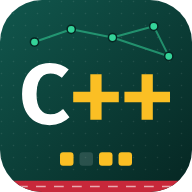
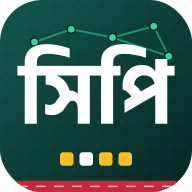
update

diff --git a/src/components/BfsDfsAnim.jsx b/src/components/BfsDfsAnim.jsx
@@ -1,0 +1,142 @@
+import { useEffect, useMemo, useState } from "react";
+import { useInView, reduced } from "./Reveal";
+import { GraphFig } from "./GraphViz";
+
+// ───── নমুনা গ্রাফ (১ থেকে শুরু) ─────
+const POS = { 1: [250, 32], 2: [80, 108], 3: [250, 108], 4: [415, 108], 5: [35, 184], 6: [125, 184], 7: [250, 184], 8: [355, 184], 9: [415, 184], 10: [475, 184], 11: [125, 250], 12: [415, 250] };
+const EDGES = [[1, 2], [1, 3], [1, 4], [2, 5], [2, 6], [3, 7], [4, 8], [4, 9], [4, 10], [6, 11], [9, 12]];
+const ADJ = {};
+Object.keys(POS).forEach((k) => (ADJ[k] = []));
+EDGES.forEach(([a, b]) => { ADJ[a].push(b); ADJ[b].push(a); });
+Object.values(ADJ).forEach((l) => l.sort((x, y) => x - y));
+const list = (a) => a.join(", ");
+
+// প্রতিটা ধাপের ছবি আগে থেকেই বানিয়ে রাখি
+function bfsSteps() {
+  const out = [{ cur: null, done: [], wait: [1], tree: [], msg: "শুরু: root (১) কে queue তে রাখলাম" }];
+  const seen = new Set([1]), q = [1], done = [], tree = [];
+  while (q.length) {
+    const u = q.shift();
+    done.push(u);
+    const fresh = ADJ[u].filter((v) => !seen.has(v));
+    fresh.forEach((v) => { seen.add(v); q.push(v); tree.push([u, v]); });
+    out.push({
+      cur: u, done: [...done], wait: [...q], tree: [...tree],
+      msg: `${u} কে queue এর সামনে থেকে নিলাম${fresh.length ? ` — নতুন প্রতিবেশী ${list(fresh)} queue এর পেছনে ঢুকলো` : " — নতুন কোনো প্রতিবেশী নেই"}`,
+    });
+  }
+  out.push({ ...out[out.length - 1], cur: null, msg: `শেষ! BFS order: ${list(done)} — কাছের node আগে, দূরের node পরে 🌊` });
+  return out;
+}
+
+function dfsSteps() {
+  const out = [{ cur: null, done: [], wait: [], tree: [], msg: "শুরু: root (১) থেকে শুরু — যতটা পারি গভীরে যাবো" }];
+  const seen = new Set(), path = [], done = [], tree = [];
+  const snap = (cur, msg) => out.push({ cur, done: [...done], wait: [...path], tree: [...tree], msg });
+  const go = (u, p) => {
+    seen.add(u); path.push(u); done.push(u);
+    if (p) tree.push([p, u]);
+    const nxt = ADJ[u].filter((v) => !seen.has(v));
+    snap(u, `${u} এ ঢুকলাম${nxt.length ? ` — না-দেখা প্রতিবেশী ${list(nxt)}, আগে ${nxt[0]} তে গভীরে যাই` : " — আর কোথাও যাওয়ার নেই, ফিরে যাবো"}`);
+    ADJ[u].forEach((v) => {
+      if (!seen.has(v)) go(v, u);
+    });
+    path.pop();
+    if (path.length) snap(path[path.length - 1], `${u} এর কাজ শেষ — ফিরে এলাম ${path[path.length - 1]} এ (backtrack)`);
+  };
+  go(1, 0);
+  out.push({ ...out[out.length - 1], cur: null, msg: `শেষ! DFS order: ${list(done)} — একদম গভীরে গিয়ে তারপর ফেরা 🧗` });
+  return out;
+}
+
+const MODES = {
+  bfs: { label: "BFS", sub: "Queue · ঢেউয়ের মতো", box: "Queue", hint: "সামনে থেকে বের, পেছনে ঢোকে (FIFO)", steps: bfsSteps(), page: "graph-bfs" },
+  dfs: { label: "DFS", sub: "Stack · গভীরে গিয়ে ফেরা", box: "Stack (বর্তমান পথ)", hint: "যেভাবে ঢুকেছি, উল্টো পথে ফিরবো (LIFO)", steps: dfsSteps(), page: "graph-dfs" },
+};
+
+export default function BfsDfsAnim({ onOpen }) {
+  const [ref, inView] = useInView(false);
+  const [mode, setMode] = useState("bfs");
+  const [s, setS] = useState(0);
+  const [play, setPlay] = useState(true);
+  const M = MODES[mode];
+  const total = M.steps.length;
+  const st = M.steps[Math.min(s, total - 1)];
+  const done = s >= total - 1;
+
+  useEffect(() => {
+    if (!inView || !play || reduced()) return;
+    const id = setTimeout(() => setS((x) => (x >= total - 1 ? 0 : x + 1)), done ? 2600 : 1300);
+    return () => clearTimeout(id);
+  }, [inView, play, s, done, total]);
+
+  const pick = (m) => { setMode(m); setS(0); setPlay(true); };
+
+  const fig = useMemo(() => {
+    const order = Object.fromEntries(st.done.map((n, i) => [n, i + 1]));
+    const waiting = new Set(st.wait);
+    const nodes = Object.entries(POS).map(([id, [x, y]]) => {
+      const n = +id;
+      let c = "n";
+      if (n === st.cur) c = "a";
+      else if (waiting.has(n)) c = "q";
+      else if (order[n]) c = "v";
+      return { id: n, x, y, s: c, sub: order[n] ? `#${order[n]}` : "" };
+    });
+    const isTree = (a, b) => st.tree.some(([p, q]) => (p === a && q === b) || (p === b && q === a));
+    const edges = EDGES.map(([a, b]) => ({ a, b, s: isTree(a, b) ? "t" : "n" }));
+    return { w: 510, h: 280, r: 20, nodes, edges, caption: `${M.label} এর ধাপ` };
+  }, [st, M.label]);
+
+  const tone = mode === "bfs" ? { on: "bg-rose-600 text-white", ring: "border-rose-200", btn: "bg-rose-600 hover:bg-rose-700", chip: "bg-sky-100 text-sky-900 ring-sky-300" } : { on: "bg-violet-600 text-white", ring: "border-violet-200", btn: "bg-violet-600 hover:bg-violet-700", chip: "bg-sky-100 text-sky-900 ring-sky-300" };
+
+  return (
+    <div ref={ref} className={`rounded-3xl border bg-white p-4 shadow-md sm:p-6 ${tone.ring}`}>
+      <div className="mb-3 flex flex-wrap items-center gap-2" role="tablist" aria-label="BFS বা DFS বাছো">
+        {Object.entries(MODES).map(([k, m]) => (
+          <button key={k} role="tab" aria-selected={mode === k} onClick={() => pick(k)}
+            className={`rounded-xl px-4 py-2 text-base font-bold transition ${mode === k ? (k === "bfs" ? "bg-rose-600 text-white shadow" : "bg-violet-600 text-white shadow") : "border border-slate-300 text-slate-700 hover:bg-slate-100"}`}>
+            {m.label} <span className="hidden text-sm font-semibold opacity-90 sm:inline">· {m.sub}</span>
+          </button>
+        ))}
+      </div>
+
+      <GraphFig g={fig} />
+
+      <div className="mt-3 grid gap-3 sm:grid-cols-2">
+        <div className="rounded-xl bg-slate-50 p-3 ring-1 ring-slate-200">
+          <p className="text-sm font-bold text-slate-600">{M.box} <span className="font-semibold text-slate-500">— {M.hint}</span></p>
+          <div className="mt-2 flex min-h-[2.5rem] flex-wrap items-center gap-1.5">
+            {st.wait.length === 0 && <span className="text-sm text-slate-400">ফাঁকা</span>}
+            {st.wait.map((n, i) => (
+              <span key={`${n}-${i}`} className={`grid h-9 min-w-[2.25rem] place-items-center rounded-lg px-2 font-mono text-base font-bold ring-1 ${tone.chip}`}>{n}</span>
+            ))}
+          </div>
+        </div>
+        <div className="rounded-xl bg-slate-50 p-3 ring-1 ring-slate-200">
+          <p className="text-sm font-bold text-slate-600">Visit order <span className="font-semibold text-slate-500">— যে ক্রমে দেখা হলো</span></p>
+          <div className="mt-2 flex min-h-[2.5rem] flex-wrap items-center gap-1.5">
+            {st.done.length === 0 && <span className="text-sm text-slate-400">এখনো কেউ না</span>}
+            {st.done.map((n) => (
+              <span key={n} className="grid h-9 min-w-[2.25rem] place-items-center rounded-lg bg-emerald-600 px-2 font-mono text-base font-bold text-white">{n}</span>
+            ))}
+          </div>
+        </div>
+      </div>
+
+      <div className="mt-4 flex flex-wrap items-center justify-between gap-3">
+        <p className="min-h-[3.25rem] flex-1 text-base font-bold text-brand-ink sm:min-h-[1.75rem]" aria-live="polite">{st.msg}</p>
+        <div className="flex gap-2">
+          <button onClick={() => setPlay(!play)} className={`rounded-lg px-4 py-1.5 text-sm font-bold text-white ${tone.btn}`}>{play ? "থামাও" : "চালাও"}</button>
+          <button onClick={() => setS(0)} className="rounded-lg border border-slate-300 px-4 py-1.5 text-sm font-bold text-slate-700 hover:bg-slate-100">আবার</button>
+          <button onClick={() => { setPlay(false); setS((x) => Math.min(total - 1, x + 1)); }} className="rounded-lg border border-slate-300 px-4 py-1.5 text-sm font-bold text-slate-700 hover:bg-slate-100">পরের ধাপ</button>
+        </div>
+      </div>
+
+      <div className="mt-3 flex flex-wrap gap-x-5 gap-y-1 border-t border-slate-100 pt-3">
+        <button onClick={() => onOpen("graph-bfs")} className="text-base font-bold text-rose-700 hover:underline">BFS এর পুরো পেজ →</button>
+        <button onClick={() => onOpen("graph-dfs")} className="text-base font-bold text-violet-700 hover:underline">DFS এর পুরো পেজ →</button>
+      </div>
+    </div>
+  );
+}

diff --git a/src/components/Home.jsx b/src/components/Home.jsx
@@ -1,23 +1,15 @@
 import { tabs, pages, index, groupPages, categories, exampleCount, bn } from "../data";
 import { col } from "./Colors";
-import { BitGroup } from "./BitViz";
 import BitPlayground from "./BitPlayground";
 import Reveal from "./Reveal";
 import SieveAnim from "./SieveAnim";
 import BinaryCounter from "./BinaryCounter";
+import BfsDfsAnim from "./BfsDfsAnim";
+import HeroBitDemo from "./HeroBitDemo";
 import TipTerminal from "./TipTerminal";
 import { BoxIcon, BitIcon, SigmaIcon, LoopIcon, GraphIcon, CheckIcon, ArrowIcon, CodeIcon, EyeIcon, ListIcon, TableIcon, WarnIcon, BookIcon, PlayIcon } from "./Icons";
 
 const TabIcon = { box: BoxIcon, bit: BitIcon, sigma: SigmaIcon, loop: LoopIcon, graph: GraphIcon };
-
-const demo = {
-  kind: "bits", caption: "12 & 10 — প্রতিটা ঘর আলাদা করে AND (হলুদ ঘরে দুইজনেই 1)",
-  rows: [
-    { label: "a = 12", bits: "00001100", dec: 12, tone: "a", hl: [4], sep: false },
-    { label: "b = 10", bits: "00001010", dec: 10, tone: "b", hl: [4], sep: false },
-    { label: "a & b", bits: "00001000", dec: 8, tone: "r", hl: [4], sep: true },
-  ],
-};
 
 const features = [
   { Icon: CodeIcon, t: "কপি করা যায় এমন কোড", d: "রঙিন syntax সহ পুরো কোড। এক ক্লিকে কপি করে নিজের মতো চালাও।" },
@@ -53,8 +45,8 @@ export default function Home({ onSelect, onOpen }) {
         </div>
         <div className="relative mx-auto grid max-w-6xl gap-10 px-4 py-12 sm:px-8 sm:py-16 lg:grid-cols-[1.15fr_1fr] lg:items-center">
           <div className="animate-fade-up">
-            <p className="inline-block rounded-full border border-white/25 bg-white/10 px-4 py-1 text-base font-semibold text-emerald-200">বাংলায় C++ টিউটোরিয়াল • Competitive Programming</p>
-            <h1 className="mt-4 text-xl sm:text-2xl lg:text-5xl">STL থেকে গ্রাফ থিওরি — Competitive Programming শিখি বাংলায়</h1>
+            <p className="inline-block rounded-full border border-white/25 bg-white/10 px-4 py-1 text-base font-semibold text-emerald-200">কম্পিটিটিভ প্রোগ্রামিং পাঠশালা • বাংলায়</p>
+            <h1 className="mt-4 text-xl sm:text-2xl lg:text-5xl">STL থেকে গ্রাফ থিওরি — কম্পিটিটিভ প্রোগ্রামিং শিখি বাংলায়</h1>
             <p className="mt-4 text-base text-white/90 sm:text-lg">প্রতিটা function-এর জন্য আলাদা পেজ — কোড, input, output আর <strong className="text-amber-300">ধাপে ধাপে ব্যাখ্যা</strong>। বিটের ছবি, গ্রাফের node-edge আর হিসাবের টেবিল দেখে দেখে শেখো, কঠিন জিনিসও জলের মতো সোজা।</p>
             <div className="mt-6 flex flex-wrap gap-3">
               <button onClick={() => onOpen(groupPages("stl")[0].id)} className="flex items-center gap-2 rounded-xl bg-white px-5 py-3 text-base font-bold text-brand-ink shadow hover:bg-emerald-50">STL শুরু করো <ArrowIcon /></button>
@@ -66,13 +58,7 @@ export default function Home({ onSelect, onOpen }) {
             <TipTerminal />
           </div>
 
-          <div className="animate-pop-in rounded-3xl bg-white p-5 text-slate-800 shadow-2xl">
-            <p className="mb-1 text-base font-bold text-brand-red">পেজ দেখতে এমন — একটা ঝলক</p>
-            <h2 className="text-xl">AND ( &amp; ) অপারেটর</h2>
-            <p className="mt-1 text-base text-slate-600">দুইটা বিট-ই <strong>1</strong> হলে ফল 1, নাহলে 0। নিচে ঘরে ঘরে দেখো:</p>
-            <BitGroup g={demo} />
-            <button onClick={() => onOpen("bit-and")} className="mt-3 flex items-center gap-1.5 text-base font-bold text-brand-green hover:underline">পুরো পেজ দেখো <ArrowIcon /></button>
-          </div>
+          <HeroBitDemo onOpen={onOpen} />
         </div>
         <div className="road-dash" />
       </section>
@@ -189,6 +175,24 @@ export default function Home({ onSelect, onOpen }) {
             <p className="mt-2 text-base text-slate-600">প্রতি সেকেন্ডে সংখ্যা ১ বাড়ছে। কোন বিট উল্টে যাচ্ছে (হলুদ) খেয়াল করো। পাশে দেখো জোড়-বিজোড়, 1 এর সংখ্যা আর 2 এর ঘাত কখন ধরা পড়ছে।</p>
             <button onClick={() => onOpen("bit-popcount")} className="mt-4 flex items-center gap-2 text-base font-bold text-emerald-700 hover:underline">popcount পেজ দেখো <ArrowIcon /></button>
           </div>
+        </div>
+      </Reveal>
+
+      {/* ───── BFS / DFS লাইভ অ্যানিমেশন ───── */}
+      <Reveal as="section" className="mx-auto max-w-6xl px-4 py-12 sm:px-8 sm:py-16">
+        <div className="grid items-start gap-8 lg:grid-cols-[0.8fr_1.2fr]">
+          <div>
+            <p className="text-sm font-bold text-rose-700">লাইভ অ্যানিমেশন · গ্রাফ থিওরি</p>
+            <h2 className="mt-1 text-xl sm:text-2xl">BFS আর DFS — পাশাপাশি দেখো</h2>
+            <p className="mt-2 text-base text-slate-600">একই tree-তে (উপর থেকে নিচে, প্রতি node এর অনেক branch) দুইভাবে হাঁটা। <strong>BFS</strong> কাছের node আগে ধরে — ঢেউয়ের মতো ছড়ায়, সাথে থাকে <strong>queue</strong>। <strong>DFS</strong> একদম গভীরে চলে যায়, আটকে গেলে ফিরে আসে — সাথে থাকে <strong>stack</strong>।</p>
+            <ul className="mt-3 space-y-1.5 text-base text-slate-700">
+              <li className="flex items-start gap-2"><CheckIcon width={18} height={18} className="mt-1.5 shrink-0 text-rose-600" /><span>হলুদ = এখন যে node এ আছি</span></li>
+              <li className="flex items-start gap-2"><CheckIcon width={18} height={18} className="mt-1.5 shrink-0 text-rose-600" /><span>নীল = queue / stack এ অপেক্ষায়</span></li>
+              <li className="flex items-start gap-2"><CheckIcon width={18} height={18} className="mt-1.5 shrink-0 text-rose-600" /><span>সবুজ = visited, নিচের <code className="rounded bg-slate-100 px-1.5 font-mono text-[0.9em] font-semibold ring-1 ring-slate-200">#১, #২…</code> = কত নম্বরে দেখা হলো</span></li>
+            </ul>
+            <p className="mt-3 text-base text-slate-600">উপরের বাটনে BFS ↔ DFS বদলে দেখো — একই tree-তে visit order কেমন আলাদা হয়ে যায়।</p>
+          </div>
+          <BfsDfsAnim onOpen={onOpen} />
         </div>
       </Reveal>
 

diff --git a/src/components/HeroBitDemo.jsx b/src/components/HeroBitDemo.jsx
@@ -1,0 +1,99 @@
+import { useEffect, useState } from "react";
+import { reduced } from "./Reveal";
+import { ArrowIcon } from "./Icons";
+
+const A = 12, B = 10, LEN = 8;
+const bits = (n) => n.toString(2).padStart(LEN, "0").split("").map(Number);
+const OPS = {
+  and: { sym: "&", name: "AND", f: (x, y) => x & y, page: "bit-and", rule: "দুইটা বিট-ই 1 হলে ফল 1, নাহলে 0।" },
+  or: { sym: "|", name: "OR", f: (x, y) => x | y, page: "bit-or", rule: "যেকোনো একটা বিট 1 হলেই ফল 1।" },
+  xor: { sym: "^", name: "XOR", f: (x, y) => x ^ y, page: "bit-xor", rule: "দুইটা বিট আলাদা হলে ফল 1, একই হলে 0।" },
+};
+const ORDER = ["and", "or", "xor"];
+const a = bits(A), b = bits(B);
+const weight = (i) => 2 ** (LEN - 1 - i);
+
+const cell = (on, tone, active) =>
+  `grid h-9 w-8 shrink-0 place-items-center rounded-md font-mono text-base font-bold transition-all duration-300 sm:h-10 sm:w-9 ${
+    on ? tone : "bg-slate-100 text-slate-400"} ${active ? "scale-110 ring-2 ring-amber-400 ring-offset-1" : ""}`;
+
+export default function HeroBitDemo({ onOpen }) {
+  const [op, setOp] = useState("and");
+  const [locked, setLocked] = useState(false);
+  const [step, setStep] = useState(reduced() ? LEN : 0); // কতগুলো ঘর হিসাব হয়ে গেছে
+  const O = OPS[op];
+  const res = a.map((x, i) => O.f(x, b[i]));
+  const finished = step >= LEN;
+
+  useEffect(() => {
+    if (reduced()) return;
+    const id = setTimeout(() => {
+      if (!finished) return setStep((s) => s + 1);
+      if (locked) return setStep(0);
+      setOp((p) => ORDER[(ORDER.indexOf(p) + 1) % ORDER.length]);
+      setStep(0);
+    }, finished ? 2200 : step === 0 ? 700 : 520);
+    return () => clearTimeout(id);
+  }, [step, finished, locked, op]);
+
+  const pick = (k) => { setOp(k); setLocked(true); setStep(0); };
+  const cur = step > 0 && step <= LEN ? step - 1 : -1; // এইমাত্র হিসাব হওয়া ঘর
+  const resVal = res.reduce((s, v, i) => s + v * weight(i), 0);
+  const msg = finished
+    ? `ফল: ${A} ${O.sym} ${B} = ${resVal}`
+    : cur >= 0
+      ? `${weight(cur)} এর ঘর: ${a[cur]} ${O.sym} ${b[cur]} = ${res[cur]}`
+      : "ঘরে ঘরে হিসাব শুরু হচ্ছে…";
+
+  return (
+    <div className="animate-pop-in rounded-3xl bg-white p-5 text-slate-800 shadow-2xl">
+      <div className="flex flex-wrap items-center justify-between gap-2">
+        <p className="inline-flex items-center gap-2 text-sm font-bold text-brand-red">
+          <span className="relative flex h-2.5 w-2.5"><span className="absolute inline-flex h-full w-full animate-ping rounded-full bg-rose-400 opacity-75" /><span className="relative inline-flex h-2.5 w-2.5 rounded-full bg-brand-red" /></span>
+          লাইভ ডেমো · বিট অপারেশন
+        </p>
+        <div className="flex gap-1" role="tablist" aria-label="অপারেটর বাছো">
+          {ORDER.map((k) => (
+            <button key={k} role="tab" aria-selected={op === k} onClick={() => pick(k)}
+              className={`rounded-lg px-2.5 py-1 font-mono text-sm font-bold transition ${op === k ? "bg-brand-ink text-white" : "bg-slate-100 text-slate-600 hover:bg-slate-200"}`}>{OPS[k].name}</button>
+          ))}
+        </div>
+      </div>
+
+      <h2 className="mt-2 text-xl">{O.name} ( {O.sym} ) অপারেটর</h2>
+      <p className="mt-1 text-base text-slate-600">{O.rule} প্রতিটা ঘর আলাদা করে হিসাব হচ্ছে — নিচে দেখো:</p>
+
+      <div className="mt-3 overflow-x-auto rounded-2xl border border-slate-200 bg-white p-3 no-scrollbar">
+        <div className="w-max">
+          <div className="flex items-end gap-3">
+            <span className="w-16 shrink-0 text-right text-xs font-semibold text-slate-500 sm:w-20">ঘরের মান →</span>
+            <div className="flex gap-1">
+              {Array.from({ length: LEN }, (_, i) => (
+                <span key={i} className={`w-8 shrink-0 text-center font-mono text-[11px] font-semibold transition sm:w-9 ${i === cur ? "text-amber-600" : "text-slate-500"}`}>{weight(i)}</span>
+              ))}
+            </div>
+          </div>
+          {[["a = 12", a, "bg-sky-600 text-white", A], ["b = 10", b, "bg-violet-600 text-white", B]].map(([lb, arr, tone, dec]) => (
+            <div key={lb} className="mt-1.5 flex items-center gap-3">
+              <span className="w-16 shrink-0 text-right text-sm font-semibold text-slate-700 sm:w-20 sm:text-base">{lb}</span>
+              <div className="flex gap-1">{arr.map((v, i) => <span key={i} className={cell(v === 1, tone, i === cur)}>{v}</span>)}</div>
+              <span className="shrink-0 font-mono text-sm font-bold text-slate-700">= {dec}</span>
+            </div>
+          ))}
+          <div className="mt-2 flex items-center gap-3 border-t-[3px] border-slate-400 pt-2">
+            <span className="w-16 shrink-0 text-right text-sm font-semibold text-slate-700 sm:w-20 sm:text-base">a {O.sym} b</span>
+            <div className="flex gap-1">
+              {res.map((v, i) => i < step
+                ? <span key={i} className={cell(v === 1, "bg-emerald-600 text-white", i === cur)}>{v}</span>
+                : <span key={i} className={cell(false, "", false) + " !bg-slate-50 !text-slate-300"}>?</span>)}
+            </div>
+            <span className={`shrink-0 font-mono text-sm font-bold transition-opacity ${finished ? "text-emerald-700 opacity-100" : "opacity-0"}`}>= {resVal}</span>
+          </div>
+        </div>
+      </div>
+
+      <p className="mt-3 min-h-[1.75rem] font-mono text-base font-bold text-brand-ink" aria-live="polite">{msg}</p>
+      <button onClick={() => onOpen(O.page)} className="mt-2 flex items-center gap-1.5 text-base font-bold text-brand-green hover:underline">{O.name} এর পুরো পেজ দেখো <ArrowIcon /></button>
+    </div>
+  );
+}

diff --git a/src/components/Navbar.jsx b/src/components/Navbar.jsx
@@ -38,16 +38,16 @@ export default function Navbar({ tab, onSelect }) {
     <header className="no-print sticky top-0 z-40 h-16 bg-white/95 backdrop-blur border-b-[3px] border-brand-red shadow-sm">
       <div ref={ref} className="relative mx-auto flex h-full max-w-[90rem] items-center justify-between px-3 sm:px-6">
         <button onClick={() => onSelect("home")} className="flex items-center gap-2 text-left" aria-label="হোম পেজে যাও">
-          <img src="/icon.svg" alt="সি++ লোগো" className="h-9 w-auto sm:h-10 xl:h-12 rounded-lg" />
+          <img src="/icon.svg" alt="কম্পিটিটিভ প্রোগ্রামিং পাঠশালা লোগো" className="h-9 w-auto sm:h-10 xl:h-12 rounded-lg" />
           <span className="h-8 w-px bg-slate-300" />
-          <span className="font-bold text-brand-ink leading-tight text-base sm:text-lg">সি++ শিখি<br className="sm:hidden" /> বাংলায়</span>
+          <span className="font-bold text-brand-ink leading-tight text-[0.85rem] sm:text-base lg:text-lg">কম্পিটিটিভ প্রোগ্রামিং<br />পাঠশালা</span>
         </button>
 
         <nav className="hidden xl:flex h-12 items-center gap-1 rounded-full bg-emerald-50/70 border border-brand-green/40 ring-1 ring-brand-green/10 px-1.5" aria-label="প্রধান মেনু">
           {items.map((it) => btn(it, false))}
         </nav>
 
-        <span className="hidden 2xl:block text-right text-sm leading-snug text-slate-500">Competitive Programming<br />Beginner দের জন্য</span>
+        <span className="hidden 2xl:block text-right text-sm leading-snug text-slate-500">নতুনদের জন্য<br />সহজ বাংলায় শেখা</span>
 
         <button className="xl:hidden grid h-11 w-11 place-items-center rounded-full bg-white border border-brand-green/40"
           aria-expanded={open} aria-controls="mobile-menu" aria-label="মেনু" onClick={() => setOpen(!open)}>

diff --git a/index.html b/index.html
@@ -4,14 +4,14 @@
     <meta charset="UTF-8" />
     <meta name="viewport" content="width=device-width, initial-scale=1, viewport-fit=cover" />
     <meta name="theme-color" content="#0a3631" />
-    <meta name="description" content="Competitive Programming Beginner দের জন্য — STL, বিট, নাম্বার থিওরি, রিকার্সন ও গ্রাফ থিওরি বাংলায়" />
+    <meta name="description" content="কম্পিটিটিভ প্রোগ্রামিং শুরু করতে চাইলে — STL, বিট, নাম্বার থিওরি, রিকার্সন ও গ্রাফ থিওরি বাংলায়, সহজ করে" />
     <link rel="icon" type="image/svg+xml" href="/icon.svg" />
     <link rel="icon" type="image/png" sizes="32x32" href="/favicon-32.png" />
     <link rel="apple-touch-icon" href="/apple-touch-icon.png" />
     <meta name="apple-mobile-web-app-capable" content="yes" />
     <meta name="mobile-web-app-capable" content="yes" />
-    <meta name="apple-mobile-web-app-title" content="সি++ বাংলা" />
-    <title>সি++ শিখি বাংলায়</title>
+    <meta name="apple-mobile-web-app-title" content="সিপি পাঠশালা" />
+    <title>কম্পিটিটিভ প্রোগ্রামিং পাঠশালা</title>
   </head>
   <body>
     <div id="root"></div>

diff --git a/src/components/Footer.jsx b/src/components/Footer.jsx
@@ -1,8 +1,9 @@
 export default function Footer() {
   return (
     <footer className="no-print border-t border-slate-200 bg-white/70 py-5 text-center text-sm text-slate-500">
-      <p>C++ for Competitive Programming — বাংলা টিউটোরিয়াল</p>
-      <p className="mt-1">সব কোড ও নোট Mohammad Hafizur Rahman Sakib-এর CPP-for-CP রিপোজিটরি থেকে</p>
+      <p>কম্পিটিটিভ প্রোগ্রামিং পাঠশালা — বাংলায় CP শেখার সহজ ঠিকানা</p>
+      <p className="mt-1">সব কোড ও নোট Mohammad Hafizur Rahman Sakib-এর <a className="font-semibold text-brand-green hover:underline" href="https://github.com/Hafiz-Sakib/CPP-for-CP" target="_blank" rel="noreferrer">CPP-for-CP রিপোজিটরি</a> থেকে</p>
+      <p className="mt-1">GitHub: <a className="font-semibold text-brand-green hover:underline" href="https://github.com/Hafiz-Sakib/CPP-for-CP" target="_blank" rel="noreferrer">github.com/Hafiz-Sakib/CPP-for-CP</a></p>
       <p className="mt-1">Made with ❤ by <a className="font-semibold text-brand-green hover:underline" href="https://github.com/Hafiz-Sakib" target="_blank" rel="noreferrer">Mohammad Hafizur Rahman Sakib</a></p>
     </footer>
   );

diff --git a/vite.config.js b/vite.config.js
@@ -10,12 +10,12 @@ export default defineConfig({
       includeAssets: ["icon.svg", "favicon-32.png", "apple-touch-icon.png"],
       workbox: { globPatterns: ["**/*.{js,css,html,svg,png,woff2,json}"], maximumFileSizeToCacheInBytes: 5 * 1024 * 1024 },
       manifest: {
-        name: "সি++ শিখি বাংলায়",
-        short_name: "সি++ বাংলা",
+        name: "কম্পিটিটিভ প্রোগ্রামিং পাঠশালা",
+        short_name: "সিপি পাঠশালা",
         id: "/",
         scope: "/",
         categories: ["education", "books"],
-        description: "Competitive Programming Beginner দের জন্য — STL, বিট, নাম্বার থিওরি, রিকার্সন ও গ্রাফ থিওরি বাংলায়",
+        description: "কম্পিটিটিভ প্রোগ্রামিং শুরু করতে চাইলে — STL, বিট, নাম্বার থিওরি, রিকার্সন ও গ্রাফ থিওরি বাংলায়, সহজ করে",
         lang: "bn",
         theme_color: "#0a3631",
         background_color: "#0a3631",

diff --git a/README.md b/README.md
@@ -1,4 +1,4 @@
-# সি++ শিখি বাংলায় (PWA)
+# কম্পিটিটিভ প্রোগ্রামিং পাঠশালা — PWA
 
     npm install
     npm run dev
